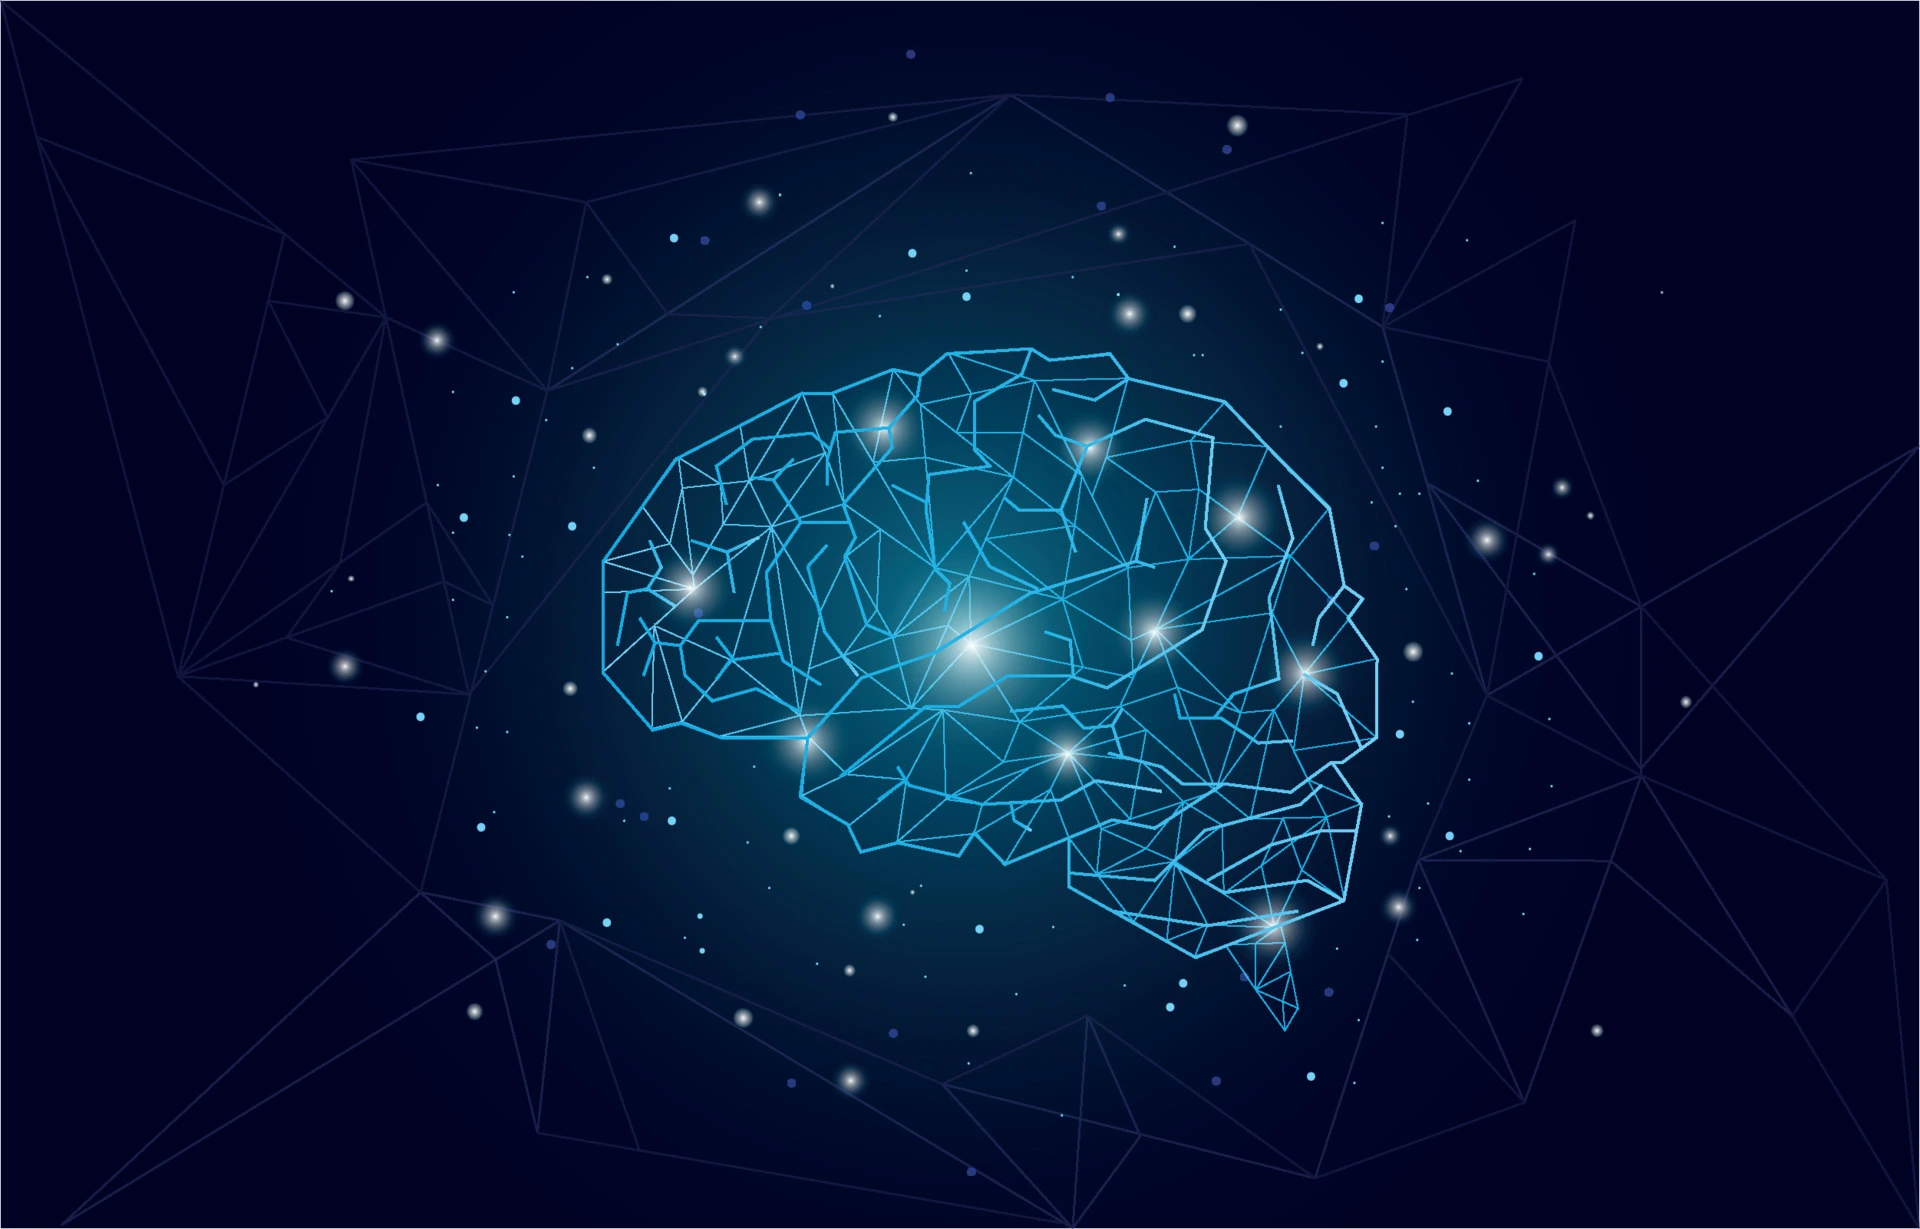
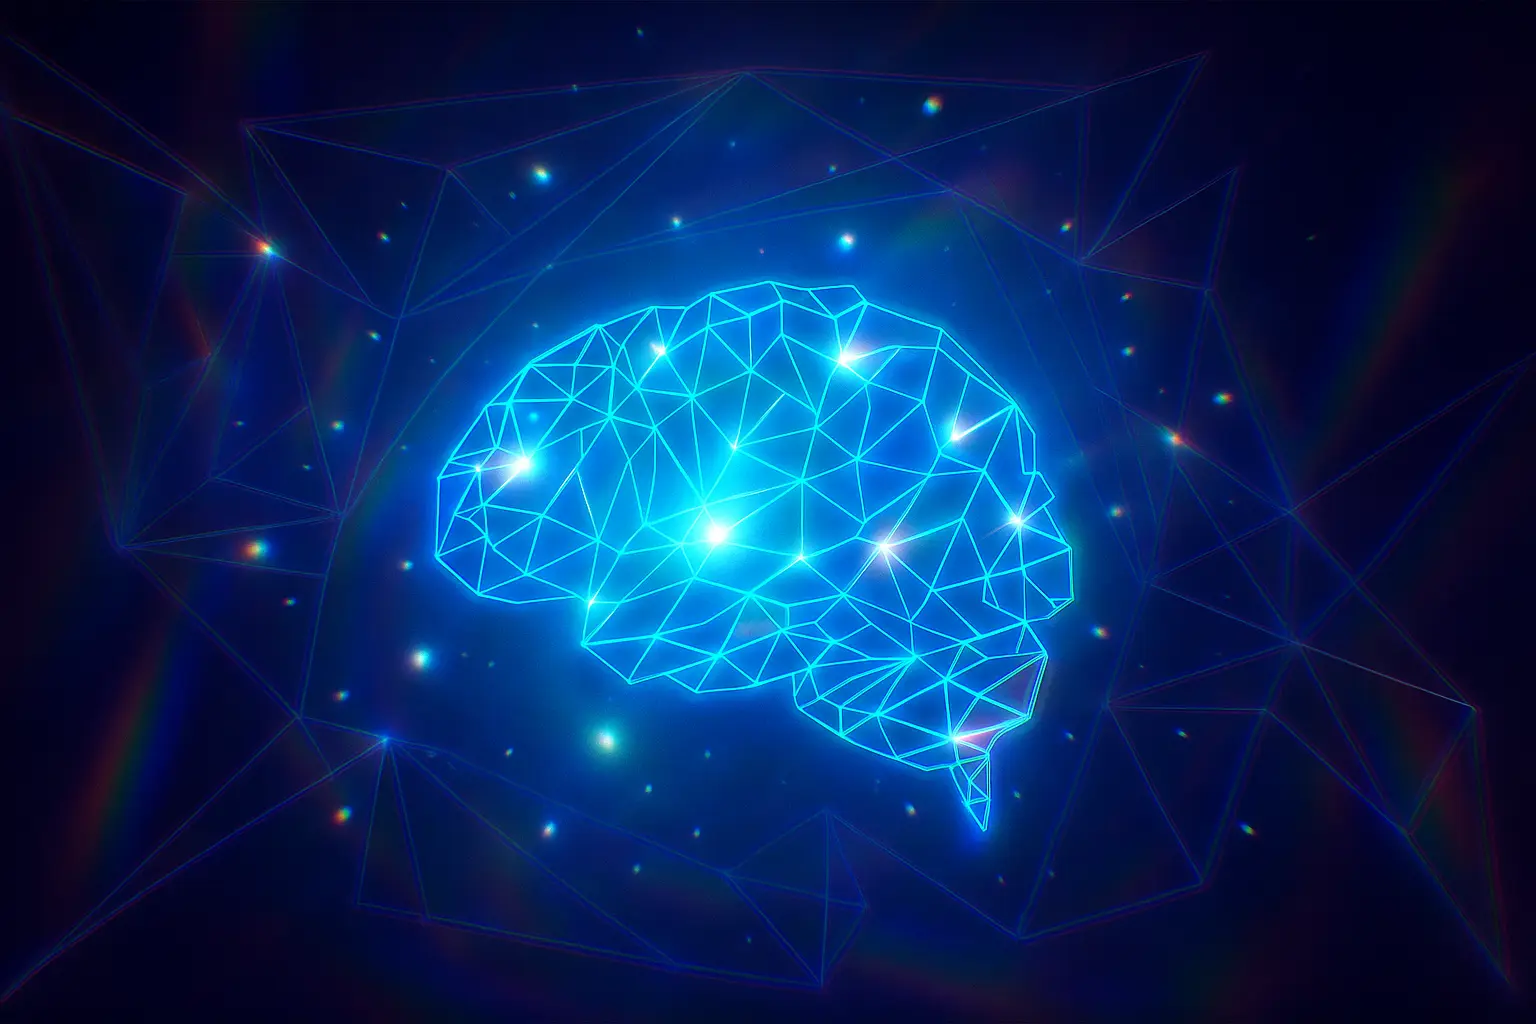
social-preview image

diff --git a/public/index.html b/public/index.html
@@ -7,21 +7,21 @@
   <meta charset="utf-8" />
   <meta name="viewport" content="width=device-width, initial-scale=1" />
   <meta name="description" content="A Stroop Effect-inspired brain training game using React, TypeScript, and SVG. Improve your cognitive skills with color-word matching." />
-  <meta name="keywords" content="brain training, stroop effect, cognitive game, React, accessibility, mental health" />
+  <meta name="keywords" content="brain training, stroop effect, cognitive game, React, mental health" />
   <meta name="theme-color" content="#000000" />
 
   <!-- ✅ Open Graph (for Facebook, LinkedIn) -->
   <meta property="og:type" content="website" />
   <meta property="og:title" content="Brain Train – Stroop Effect Game" />
   <meta property="og:description" content="Try this color-word brain game inspired by the Stroop effect. Built with React and TypeScript." />
-  <meta property="og:image" content="https://al3xsus.github.io/brain-train/images/brain-train-cover.webp" />
+  <meta property="og:image" content="https://github.com/al3xsus/brain-train/raw/main/social-preview.png" />
   <meta property="og:url" content="https://al3xsus.github.io/brain-train/" />
 
   <!-- ✅ Twitter Card -->
   <meta name="twitter:card" content="summary_large_image" />
   <meta name="twitter:title" content="Brain Train – Stroop Effect Game" />
   <meta name="twitter:description" content="Challenge your brain with this Stroop effect-based game built in React." />
-  <meta name="twitter:image" content="https://al3xsus.github.io/brain-train/images/brain-train-cover.webp" />
+  <meta name="twitter:image" content="https://github.com/al3xsus/brain-train/raw/main/social-preview.png" />
 
   <!-- ✅ Canonical URL -->
   <link rel="canonical" href="https://al3xsus.github.io/brain-train/" />

diff --git a/README.md b/README.md
@@ -22,7 +22,7 @@ mediumURL: "https://levelup.gitconnected.com/web-application-for-a-brain-trainin
 [![Deploy with GitHub Pages](https://img.shields.io/badge/deploy-GitHub%20Pages-blue?logo=github)](https://al3xsus.github.io/brain-train/)
 [![Last Commit](https://img.shields.io/github/last-commit/al3xsus/brain-train)](https://github.com/al3xsus/brain-train/commits/main)
 
-![Brain train cover image](/public/images/brain-train-cover.webp)
+![Social preview of Brain Train](social-preview.png)
 
 **Brain Train** is a web-based game inspired by the *Stroop Effect*, a psychological phenomenon where it's difficult to name the color of the word instead of reading the word itself.
 
@@ -114,3 +114,7 @@ License: [MIT](LICENSE)
 
 * **Live Demo:** [Try It Online](https://al3xsus.github.io/brain-train/)
 * **Original Blog Post:** [Read on Medium](https://levelup.gitconnected.com/web-application-for-a-brain-training-23dc567f0315)
+
+---
+
+> 🖼 This repository includes a social preview image for enhanced link sharing.
